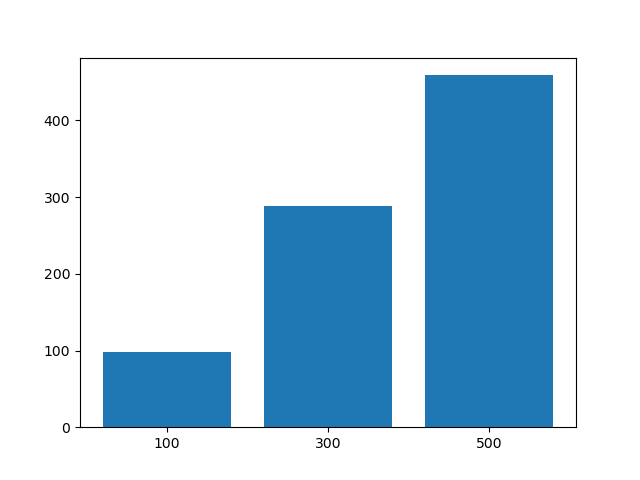
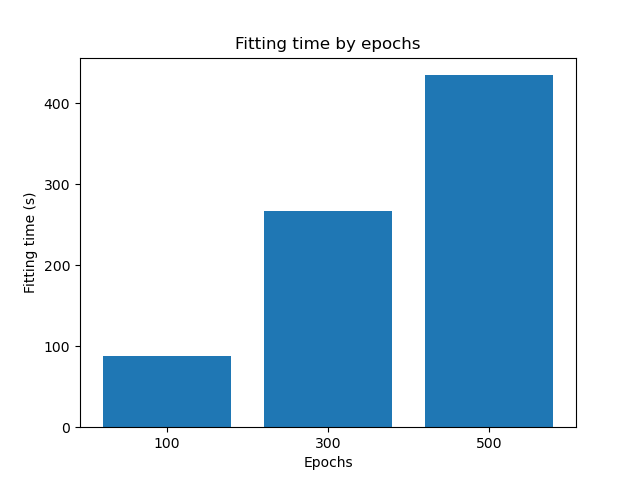
machine learning 2 deep learning zad 3 generated images

diff --git a/machine-learning-2/deep learning/zad3/main.py b/machine-learning-2/deep learning/zad3/main.py
@@ -70,12 +70,10 @@ def make_generator_model(resolution: int, noise_dim: int) -> Sequential:
 
     model.add(Conv2DTranspose(64, (5, 5), strides=(2, 2), padding='same', use_bias=False))
     assert model.output_shape == (None, r2, r2, 64)
-
     model.add(BatchNormalization())
     model.add(LeakyReLU())
 
     model.add(Conv2DTranspose(3, (5, 5), strides=(2, 2), padding='same', use_bias=False, activation='tanh'))
-    # model.add(MaxPooling2D(pool_size=(5, 5), strides=(2, 2), padding='same'))
     assert model.output_shape == (None, resolution, resolution, 3)
 
     return model
@@ -132,10 +130,16 @@ def train_step(images: np.array, generator: Sequential, discriminator: Sequentia
     return gen_loss, disc_loss
 
 
-def generate_and_save_images(model: Sequential, epoch: int, test_input: np.array) -> None:
+def generate_and_save_images(model: Sequential, epoch: int, test_input: np.array, save_location: str = None) -> None:
     predictions = model(test_input, training=False)
     predictions = predictions * 127.5 + 127.5
     predictions = np.array(predictions).astype("uint8")
+
+    if save_location is None:
+        save_location = EPOCH_IMAGES_DIR
+    else:
+        if not os.path.exists(save_location):
+            os.makedirs(save_location)
 
     fig = plt.figure(figsize=(4, 4))
     k = int(np.sqrt(num_examples_to_generate))
@@ -145,12 +149,12 @@ def generate_and_save_images(model: Sequential, epoch: int, test_input: np.array
         plt.imshow(predictions[i])
         plt.axis('off')
 
-    plt.savefig(f'{EPOCH_IMAGES_DIR}/image_at_epoch_{epoch}.png')
+    plt.savefig(f'{save_location}/image_at_epoch_{epoch}.png')
     plt.close(fig)
     # plt.show() if epoch % 10 == 0 or epoch == 1 else plt.close(fig)
 
 
-def train(dataset: DatasetV1Adapter, generator: Sequential, discriminator: Sequential, generator_optimizer: OptimizerV2, discriminator_optimizer: OptimizerV2, epochs: int, noise_dim: int, seed: np.array, checkpoint: Checkpoint) -> np.array:
+def train(dataset: DatasetV1Adapter, generator: Sequential, discriminator: Sequential, generator_optimizer: OptimizerV2, discriminator_optimizer: OptimizerV2, epochs: int, noise_dim: int, seed: np.array, checkpoint: Checkpoint, image_save_location: str = None) -> np.array:
     losses = np.zeros((epochs * len(dataset), 2))  # gen, disc
     idx = 0
 
@@ -161,7 +165,7 @@ def train(dataset: DatasetV1Adapter, generator: Sequential, discriminator: Seque
             losses[idx] = train_step(image_batch, generator, discriminator, generator_optimizer, discriminator_optimizer, noise_dim)
             idx += 1
 
-        generate_and_save_images(generator, epoch + 1, seed)
+        generate_and_save_images(generator, epoch + 1, seed, image_save_location)
 
         # Save the model every 15 epochs
         if (epoch + 1) % 15 == 0:
@@ -169,7 +173,7 @@ def train(dataset: DatasetV1Adapter, generator: Sequential, discriminator: Seque
 
         print('Time for epoch {} is {} sec'.format(epoch + 1, time.time() - start))
 
-    generate_and_save_images(generator, epochs, seed)
+    generate_and_save_images(generator, epochs, seed, image_save_location)
 
     return losses
 
@@ -206,9 +210,9 @@ def reduce_resolution(images: np.array, resolution: int) -> np.array:
     return tr
 
 
-def generate_gif(anim_filename: str) -> None:
+def generate_gif(anim_filename: str, images_location: str = EPOCH_IMAGES_DIR) -> None:
     with imageio.get_writer(anim_filename, mode='I') as writer:
-        filenames = glob.glob(f'{EPOCH_IMAGES_DIR}/image*.png')
+        filenames = glob.glob(f'{images_location}/image*.png')
         filenames = sorted(filenames)
 
         for filename in filenames:
@@ -256,8 +260,9 @@ def zad1_initializing_vector() -> None:
 
     train_dataset, train_labels = read_train_data(resolution)
 
-    for noise_dim in noise_dims:
+    for noise_dim_iter, noise_dim in enumerate(noise_dims):
         seed = tf.random.normal([num_examples_to_generate, noise_dim])
+        image_save_location = f'{EPOCH_IMAGES_DIR}/zad1_noise_dim{noise_dim}'
 
         generator = make_generator_model(resolution=resolution, noise_dim=noise_dim)
         discriminator = make_discriminator_model(resolution=resolution)
@@ -270,22 +275,68 @@ def zad1_initializing_vector() -> None:
 
         t1 = time.time()
         losses = train(train_dataset, generator, discriminator, generator_optimizer, discriminator_optimizer, epochs,
-                       noise_dim, seed, checkpoint)
+                       noise_dim, seed, checkpoint, image_save_location)
         t2 = time.time()
         fit_time = t2 - t1
 
+        fit_times[noise_dim_iter] = fit_time
+        checkpoint.restore(tf.train.latest_checkpoint(CHECKPOINT_DIR))
+
         plot_losses_functions(epochs, fit_time, losses, noise_dim, f'zad1_loss_graph_initializing_dim_{noise_dim}.png')
-        generate_gif(f'{ANIMATIONS_DIR}/zad1_dcgan_initializing_dim_{noise_dim}.gif')
+        generate_gif(f'{ANIMATIONS_DIR}/zad1_dcgan_initializing_dim_{noise_dim}.gif', image_save_location)
 
     fig = plt.figure()
     plt.bar(list(map(lambda x: str(x), noise_dims)), fit_times)
     plt.title('Fitting time by initializing vector size')
+    plt.xlabel('Initializing vector size')
+    plt.ylabel('Fitting time (s)')
     plt.savefig(f'{IMAGES_DIR}/zad1_initializing_vector_times.png')
     plt.close(fig)
 
 
+def zad1_resolution() -> None:
+    resolutions = [4, 16, 32]
+    fit_times = np.zeros(len(resolutions))
+
+    noise_dim = 100
+    epochs = 100
+    seed = tf.random.normal([num_examples_to_generate, noise_dim])
+
+    for resolution_iter, resolution in enumerate(resolutions):
+        image_save_location = f'{EPOCH_IMAGES_DIR}/zad1_resolution{resolution}'
+        train_dataset, train_labels = read_train_data(resolution)
+
+        generator = make_generator_model(resolution=resolution, noise_dim=noise_dim)
+        discriminator = make_discriminator_model(resolution=resolution)
+
+        generator_optimizer = Adam(1e-4)
+        discriminator_optimizer = Adam(1e-4)
+        checkpoint = Checkpoint(generator_optimizer=generator_optimizer, discriminator_optimizer=discriminator_optimizer,
+                                generator=generator, discriminator=discriminator)
+
+        t1 = time.time()
+        losses = train(train_dataset, generator, discriminator, generator_optimizer, discriminator_optimizer, epochs,
+                       noise_dim, seed, checkpoint, image_save_location)
+        t2 = time.time()
+        fit_time = t2 - t1
+
+        fit_times[resolution_iter] = fit_time
+        checkpoint.restore(tf.train.latest_checkpoint(CHECKPOINT_DIR))
+
+        plot_losses_functions(epochs, fit_time, losses, noise_dim, f'zad1_loss_graph_resolution_{resolution}x{resolution}.png')
+        generate_gif(f'{ANIMATIONS_DIR}/zad1_dcgan_resolution_{resolution}x{resolution}.gif', image_save_location)
+
+    fig = plt.figure()
+    plt.bar(list(map(lambda x: f'{x}x{x}', resolutions)), fit_times)
+    plt.title('Fitting time by image resolution')
+    plt.xlabel('Image resolution')
+    plt.ylabel('Fitting time (s)')
+    plt.savefig(f'{IMAGES_DIR}/zad1_resolution_times.png')
+    plt.close(fig)
+
+
 def zad2() -> None:
-    epochs_counts = [100, 300, 500]
+    epochs_counts = [1500]
     fit_times = np.zeros(len(epochs_counts))
 
     resolution = 32  # Resolution min=4, default=32, only multiples of 4
@@ -295,6 +346,8 @@ def zad2() -> None:
     train_dataset, train_labels = read_train_data(resolution)
 
     for epochs_iter, epochs in enumerate(epochs_counts):
+        image_save_location = f'{EPOCH_IMAGES_DIR}/zad2_epochs{epochs}'
+
         generator = make_generator_model(resolution=resolution, noise_dim=noise_dim)
         discriminator = make_discriminator_model(resolution=resolution)
 
@@ -305,7 +358,8 @@ def zad2() -> None:
                                 generator=generator, discriminator=discriminator)
 
         t1 = time.time()
-        losses = train(train_dataset, generator, discriminator, generator_optimizer, discriminator_optimizer, epochs, noise_dim, seed, checkpoint)
+        losses = train(train_dataset, generator, discriminator, generator_optimizer, discriminator_optimizer, epochs,
+                       noise_dim, seed, checkpoint, image_save_location)
         t2 = time.time()
         fit_time = t2 - t1
 
@@ -313,11 +367,13 @@ def zad2() -> None:
         checkpoint.restore(tf.train.latest_checkpoint(CHECKPOINT_DIR))
 
         plot_losses_functions(epochs, fit_time, losses, noise_dim, f'zad2_loss_graph_epochs{epochs}.png')
-        generate_gif(f'{ANIMATIONS_DIR}/zad2_dcgan_epochs_{epochs}.gif')
+        generate_gif(f'{ANIMATIONS_DIR}/zad2_dcgan_epochs_{epochs}.gif', image_save_location)
 
     fig = plt.figure()
     plt.bar(list(map(lambda x: str(x), epochs_counts)), fit_times)
     plt.title('Fitting time by epochs')
+    plt.xlabel('Epochs')
+    plt.ylabel('Fitting time (s)')
     plt.savefig(f'{IMAGES_DIR}/zad2_fit_times.png')
     plt.close(fig)
 
@@ -331,5 +387,6 @@ if __name__ == '__main__':
     checkpoint_prefix = os.path.join(CHECKPOINT_DIR, "ckpt")
     cross_entropy = BinaryCrossentropy(from_logits=True)
 
-    zad1_initializing_vector()
+    # zad1_initializing_vector()
+    # zad1_resolution()
     zad2()
